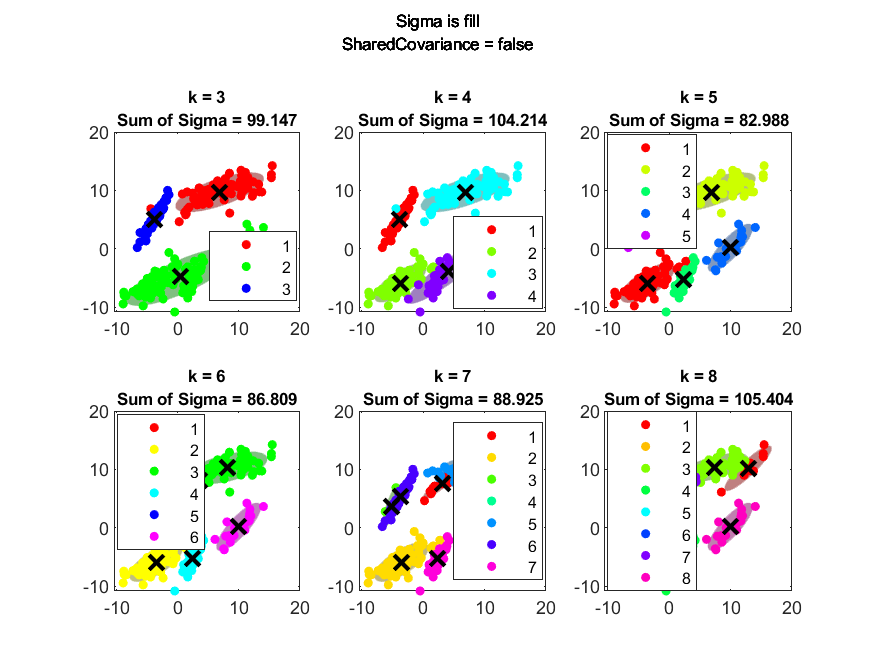
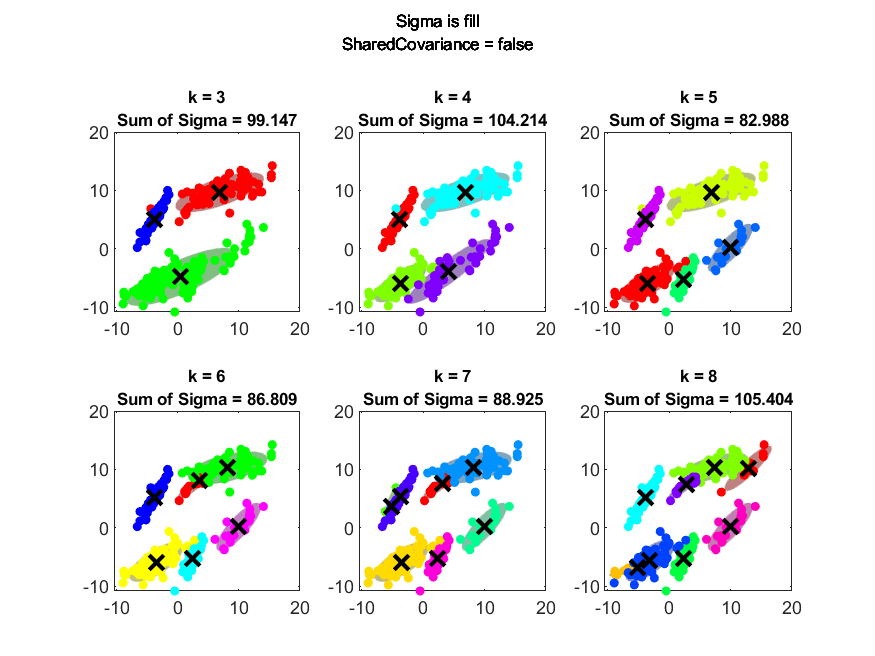
Add files via upload

diff --git a/Q2_mod.m b/Q2_mod.m
@@ -17,12 +17,6 @@ X = [var1, var2];
 % Ref: https://www.mathworks.com/help/stats/clustering-using-gaussian-mixture-models.html
 
 rng(3);
-legends{1} = {'1','2','3'};
-legends{2} = {'1','2','3','4'};
-legends{3} = {'1','2','3','4','5'};
-legends{4} = {'1','2','3','4','5','6'};
-legends{5} = {'1','2','3','4','5','6','7'};
-legends{6} = {'1','2','3','4','5','6','7','8'};
 
 sigma_all = {};
 sigma_sum = [];
@@ -56,8 +50,8 @@ for k=3:8
         uistack(h2,'bottom');
     end
     plot(gmfit.mu(:,1),gmfit.mu(:,2),'kx','LineWidth',2,'MarkerSize',10)
-    title(sprintf('k = %d\nSum of Sigma = %0.3f',k,sum(gmfit.Sigma, 'all')),'FontSize',8)
-    legend(h1,legends{k-2})
+    title(sprintf('k = %d\nSum of Sigma = %0.3f',k,sum(gmfit.Sigma, 'all')),'FontSize',8)    
+    legend('hide')
     hold off
     sgtitle(sprintf('Sigma is fill\nSharedCovariance = false'),'FontSize',8)
 end
